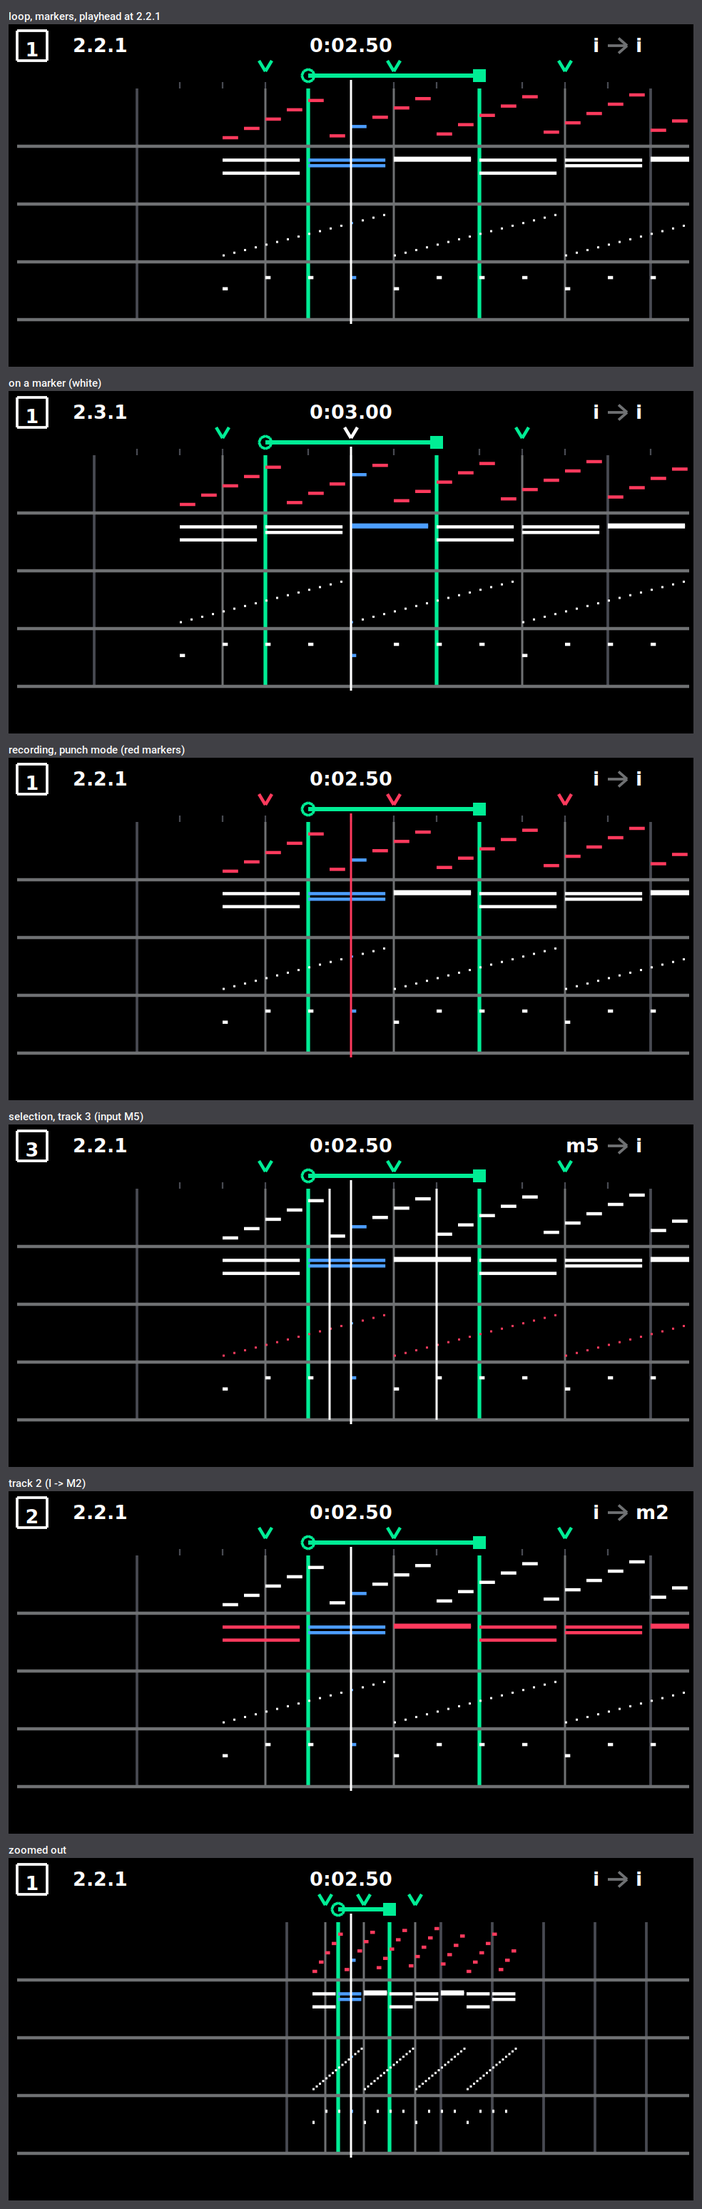
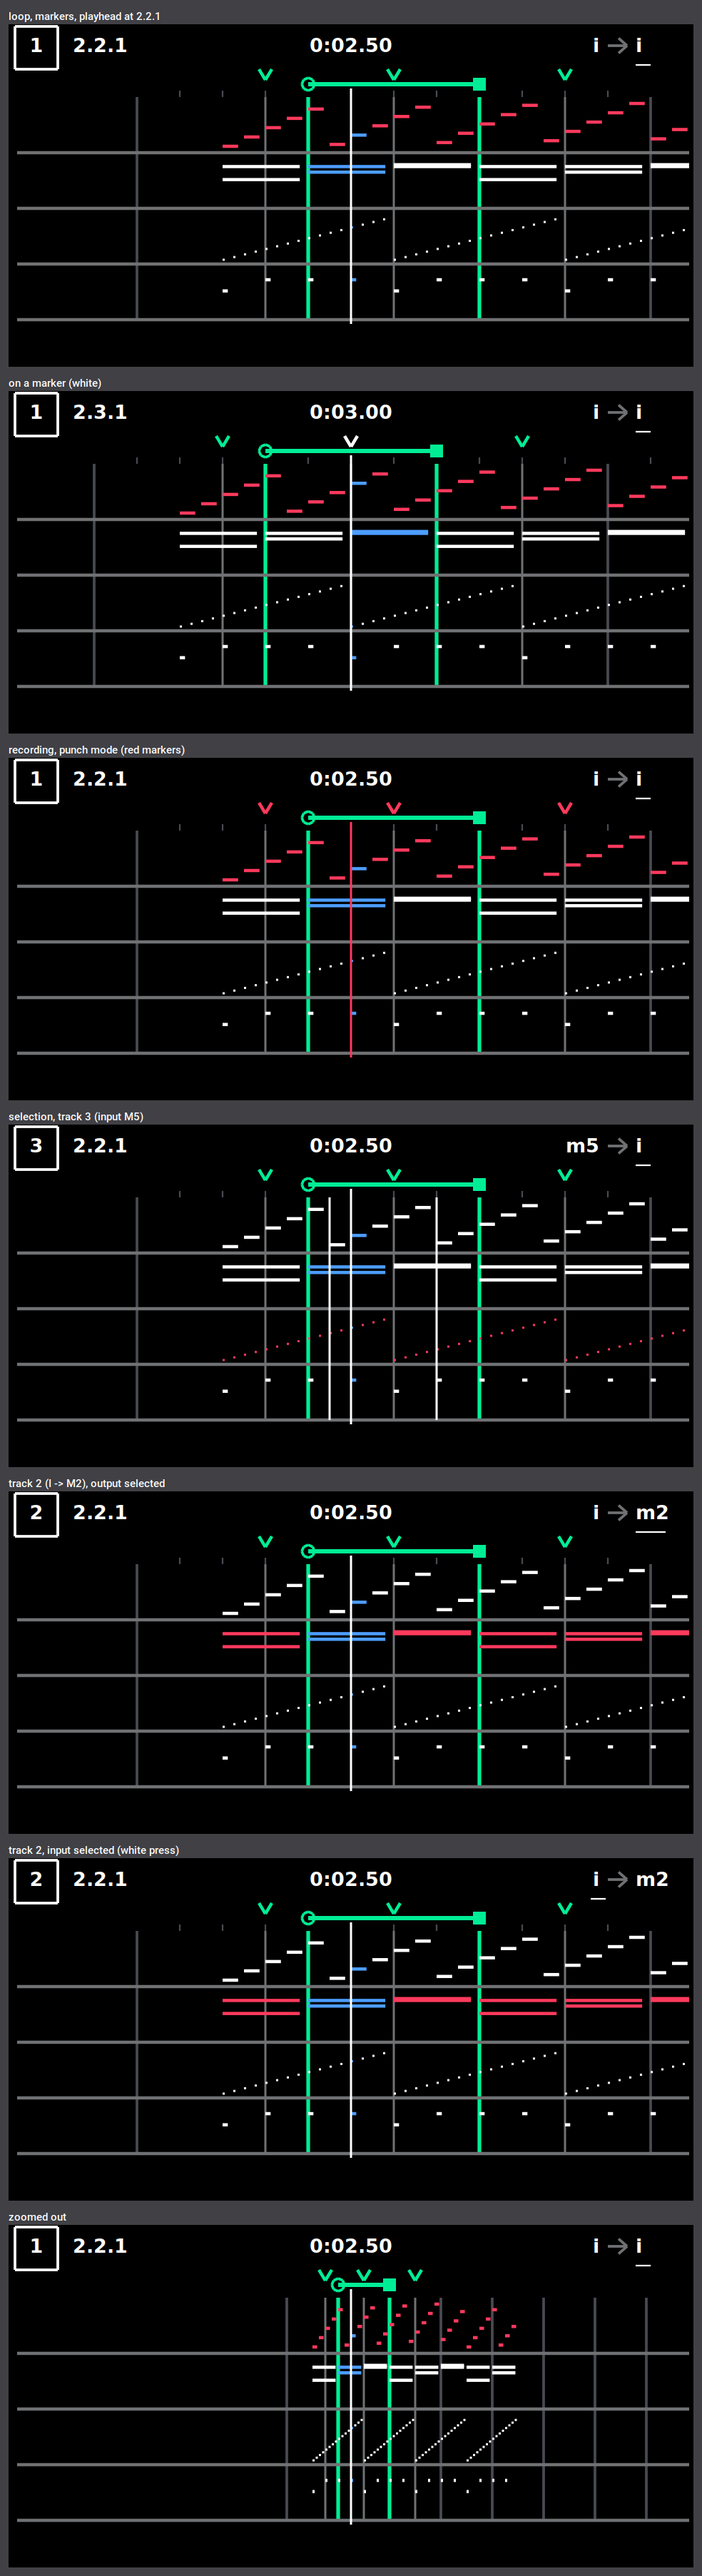
midi-seq: bigger track square, lanes lower, white press = input/output, white turn = targets

Changed region(s): [[0.0, 0.0, 1.0, 0.9922], [0.0, 0.0, 0.2134, 0.031]]

diff --git a/synth_sdk/seqdev/ms_draw.c b/synth_sdk/seqdev/ms_draw.c
@@ -36,8 +36,8 @@ static const uint8_t c_lane[4] = { 0x6F, 0x71, 0x73, 255 }, c_bar[4] = { 0x48, 0
 
 #define X0      OP1_Q10(4)                   /* lanes: x from here to X1 */
 #define X1      OP1_Q10(318)
-#define LANE_Y(t) OP1_Q10(30 + (t) * 27)     /* top of lane t, 27 px each, separators below */
-#define BAND_Y  OP1_Q10(24)                  /* loop bar / marker carets */
+#define LANE_Y(t) OP1_Q10(34 + (t) * 26)     /* top of lane t, 26 px each, separators below */
+#define BAND_Y  OP1_Q10(28)                  /* loop bar / marker carets */
 #define TXT_Y   4                            /* status bar text, px */
 #define ARROW_X 280                          /* input -> output arrow, px */
 
@@ -47,6 +47,7 @@ static void ring(void *r, int32_t x, int32_t y, int32_t rad, int32_t w, const ui
     for (int i = 0; i < 8; i++)
         sq_line(r, x + px[i] * rad / 10, y + py[i] * rad / 10, x + px[i + 1] * rad / 10, y + py[i + 1] * rad / 10, w, c);
 }
+static int32_t slen(const char *t) { int32_t n = 0; while (t[n]) n++; return n; }
 static char *two(char *o, uint32_t v) { *o++ = (char)('0' + v / 10 % 10); *o++ = (char)('0' + v % 10); *o = 0; return o; }
 
 void ms_draw(void *r, const ms_view *v, ms_t *s)
@@ -63,12 +64,12 @@ void ms_draw(void *r, const ms_view *v, ms_t *s)
     {
         int st = v->sel_track & 3, mu = s->h.mute[st];
         const uint8_t *cb = mu ? c_grey : c_white;
-        sq_line(r, OP1_Q10(4), OP1_Q10(3), OP1_Q10(18), OP1_Q10(3), 0x500, cb);
-        sq_line(r, OP1_Q10(18), OP1_Q10(3), OP1_Q10(18), OP1_Q10(17), 0x500, cb);
-        sq_line(r, OP1_Q10(18), OP1_Q10(17), OP1_Q10(4), OP1_Q10(17), 0x500, cb);
-        sq_line(r, OP1_Q10(4), OP1_Q10(17), OP1_Q10(4), OP1_Q10(3), 0x500, cb);
+        sq_line(r, OP1_Q10(3), OP1_Q10(1), OP1_Q10(23), OP1_Q10(1), 0x500, cb);
+        sq_line(r, OP1_Q10(23), OP1_Q10(1), OP1_Q10(23), OP1_Q10(21), 0x500, cb);
+        sq_line(r, OP1_Q10(23), OP1_Q10(21), OP1_Q10(3), OP1_Q10(21), 0x500, cb);
+        sq_line(r, OP1_Q10(3), OP1_Q10(21), OP1_Q10(3), OP1_Q10(1), 0x500, cb);
         char d[2] = { (char)('1' + st), 0 };
-        txt(r, &tx[mu ? T_TRACK_G : T_TRACK_W], OP1_Q10(11), TXT_Y + 2, cb, 1, d);   /* (centred in the square) */
+        txt(r, &tx[mu ? T_TRACK_G : T_TRACK_W], OP1_Q10(13), TXT_Y, cb, 1, d);   /* (centred in the square) */
         char t[16], *o = t;
         int32_t p = ph < 0 ? 0 : ph, b = p / bar, q = (p - b * bar) / beat, x = (p - b * bar - q * beat) / (beat / 4);
         o = sq_num(o, (uint32_t)b + 1, 0); *o++ = '.'; o = sq_num(o, (uint32_t)q + 1, 0); *o++ = '.'; sq_num(o, (uint32_t)x + 1, 0);
@@ -81,6 +82,8 @@ void ms_draw(void *r, const ms_view *v, ms_t *s)
         o = sq_cat(t, dl[ik % 3]);
         if (ik == MS_DEST_MIDI) sq_num(o, (s->h.in[st] >> 4) + 1u, 0);
         txt(r, &tx[T_IN], OP1_Q10(ARROW_X - 4), TXT_Y, c_white, 2, t);
+        int32_t ul = OP1_Q10(19);                                     /* white knob edits the underlined side */
+        if (v->io) sq_line(r, OP1_Q10(ARROW_X - 1) - OP1_Q10(7) * slen(t), ul, OP1_Q10(ARROW_X - 1), ul, 0x300, c_white);
         int32_t ax = OP1_Q10(ARROW_X), ay = OP1_Q10(10);              /* arrow */
         sq_line(r, ax, ay, ax + OP1_Q10(9), ay, 0x500, c_grey);
         sq_line(r, ax + OP1_Q10(5), ay - OP1_Q10(3.5), ax + OP1_Q10(9), ay, 0x500, c_grey);
@@ -88,6 +91,7 @@ void ms_draw(void *r, const ms_view *v, ms_t *s)
         o = sq_cat(t, dl[ok]);
         if (ok == MS_DEST_MIDI) sq_num(o, s->h.ch[st] + 1u, 0);
         txt(r, &tx[T_OUT], ax + OP1_Q10(13), TXT_Y, c_white, 0, t);
+        if (!v->io) sq_line(r, ax + OP1_Q10(13), ul, ax + OP1_Q10(13) + OP1_Q10(7) * slen(t), ul, 0x300, c_white);
     }
 
     /* bars and beats: lines through the lanes (bars thicker), beat ticks above the lanes when there is room */
@@ -130,7 +134,7 @@ void ms_draw(void *r, const ms_view *v, ms_t *s)
     for (int t = 0; t < MS_TRACKS; t++) {
         int32_t y = LANE_Y(t);
         const uint8_t *lc = t == v->sel_track ? c_red : s->h.mute[t] ? c_grey : c_white;
-        sq_line(r, X0, y + OP1_Q10(27), X1, y + OP1_Q10(27), 0x600, c_lane);
+        sq_line(r, X0, y + OP1_Q10(26), X1, y + OP1_Q10(26), 0x600, c_lane);
         int n = ms_events(s, t, ph - span, ph + span, ev, ps, 96);
         for (int i = 0; i < n; i++) {
             int32_t x0 = MS_X(ps[i]);

diff --git a/synth_sdk/seqdev/ms_fw.c b/synth_sdk/seqdev/ms_fw.c
@@ -4,8 +4,8 @@
  * Synced to the tape: positions are tape samples; PLAY / STOP stay the tape's. While the view is open: T1..T4 select
  * the track (Shift: mute), REC held = record the selected track (Shift + REC: latched, STOP ends it), scissors marks
  * the selection start / end, LIFT cuts it (no selection: the 1.5 s page under the playhead), Shift + LIFT copies, DROP
- * pastes at the playhead, green press cycles the track destination (instrument / sequencer / MIDI out), white press
- * its MIDI channel; red press / Shift + red / Shift + red turn: tape markers as on the tape screen. TAPE alone or another mode key leaves the view (the device keeps playing with the tape). */
+ * pastes at the playhead, white press switches between the track's input and output, white turn scrolls the
+ * targets (I instrument, S sequencer, M1..M16 MIDI); red press / Shift + red / Shift + red turn: tape markers as on the tape screen. TAPE alone or another mode key leaves the view (the device keeps playing with the tape). */
 #pragma GCC optimize ("Os", "no-tree-loop-distribute-patterns")
 #include "../op1_synth.h"
 #include "../seq/seq_text.h"
@@ -47,6 +47,26 @@ static int ms_scr_id = -1;
 static void *tape_obj;
 static volatile uint8_t view, seq_open_req, rec_held, rec_latch, seq_down, seq_chord, sel_set, own_play;
 static int32_t sel_a = -1, sel_b = -1;
+static uint8_t io_sel;                                   /* white knob edits: 0 output, 1 input */
+static int io_acc;
+/* white turn: one step per detent through I, S, M1..M16 (clamped) for the selected track's input or output */
+int ms_knob(int knob, int delta)
+{
+    if (!view || !ms || knob != 2) return 0;
+    if ((io_acc > 0 && delta < 0) || (io_acc < 0 && delta > 0)) io_acc = 0;
+    io_acc += delta;
+    int st = io_acc / 1024;
+    if (!st) return 1;
+    io_acc = 0;
+    int t = ms->sel & 3, k, ch;
+    if (io_sel) { k = ms->h.in[t] & 15; ch = ms->h.in[t] >> 4; } else { k = ms->h.dest[t] % 3; ch = ms->h.ch[t] & 15; }
+    int i = k == MS_DEST_MIDI ? 2 + ch : k == MS_DEST_SEQ ? 1 : 0;   /* list index */
+    i += st; if (i < 0) i = 0; if (i > 17) i = 17;
+    k = i >= 2 ? MS_DEST_MIDI : i == 1 ? MS_DEST_SEQ : MS_DEST_INSTR; ch = i >= 2 ? i - 2 : ch;
+    if (io_sel) ms->h.in[t] = (uint8_t)(k | ch << 4); else { ms->h.dest[t] = (uint8_t)k; ms->h.ch[t] = (uint8_t)ch; }
+    ms->head_dirty = 1;
+    return 1;
+}
 static uint8_t swallow[0x40];
 
 /* ---- env ---- */
@@ -245,8 +265,7 @@ int ms_key(int code, int pressed, int on_tape)
         swallow[code] = 1; return 1;
     }
     if (code == 0x0B) { ms_paste(ms, ph); swallow[code] = 1; return 1; }
-    if (code == 0x3C) { int t = ms->sel; ms->h.dest[t] = (uint8_t)((ms->h.dest[t] + 1) % 3); ms->head_dirty = 1; swallow[code] = 1; return 1; }
-    if (code == 0x3D) { int t = ms->sel; ms->h.ch[t] = (uint8_t)((ms->h.ch[t] + 1) & 15); ms->head_dirty = 1; swallow[code] = 1; return 1; }
+    if (code == 0x3D) { io_sel ^= 1; swallow[code] = 1; return 1; }
     return 0;
 }
 /* ---- drawing: the view screen's update (GUI thread, every frame): seqdev/ms_draw.c ---- */
@@ -273,7 +292,7 @@ static void ms_scr_update(void *self, int dt)
     ms_view v;
     v.ph = TAPE_POS >> 6; v.zoom_q10 = tm_zoom_q10(); v.bpm_q8 = bpm_q8();
     v.loop_on = LOOP_ON; v.loop_in = LOOP_IN; v.loop_out = LOOP_OUT;
-    v.sel_a = sel_a; v.sel_b = sel_b; v.sel_track = ms->sel & 3; v.rec = recording(); v.punch = pu_mode;
+    v.sel_a = sel_a; v.sel_b = sel_b; v.sel_track = ms->sel & 3; v.rec = recording(); v.punch = pu_mode; v.io = io_sel;
     v.tm_n = tm_n; v.tm = tm_pos;
     ms_draw(op1_raster(), &v, ms);
 }

diff --git a/synth_sdk/dispatcher.c b/synth_sdk/dispatcher.c
@@ -1146,6 +1146,7 @@ void knob_event_hook(int knob, int16_t *delta)
     if (dpu_knob(knob, *delta)) return;                          /* drum+ pages (pitch / volume: stock) */
     if (knob == 0 && sm_on == 2 && CUR_MODE_ID == 0x0C) { usbout_turn(*delta); return; }   /* usb out: blue */
     if (knob >= 0 && knob < 4 && sm_on == 3 && CUR_MODE_ID == 0x0C) { settings_turn(knob, *delta); return; }
+    { extern int ms_knob(int knob, int delta); if (ms_knob(knob, *delta)) return; }   /* MIDI seq view: white */
     if (knob == 3 && *(volatile uint8_t *)0x01DD7F78 && tape_page()) { tm_turn(*delta); return; }  /* tape: jump */
     if (knob >= 0 && knob < 4 && dots_page()) {                  /* dots: see seq/dots.c */
         int m = *(volatile int *)0x01DE4C40 == 1, sh = *(volatile uint8_t *)0x01DD7F78;

diff --git a/synth_sdk/harness/mseq_render.c b/synth_sdk/harness/mseq_render.c
@@ -65,7 +65,8 @@ int main(void)
     v.ph = 132300; frame("on a marker (white)", &v);
     v.ph = 110250; v.punch = 1; v.rec = 1; frame("recording, punch mode (red markers)", &v);
     v.punch = 0; v.rec = 0; v.sel_a = 99225; v.sel_b = 154350; v.sel_track = 2; frame("selection, track 3 (input M5)", &v);
-    v.sel_a = v.sel_b = -1; v.sel_track = 1; frame("track 2 (I -> M2)", &v); v.sel_track = 2;
+    v.sel_a = v.sel_b = -1; v.sel_track = 1; frame("track 2 (I -> M2), output selected", &v);
+    v.io = 1; frame("track 2, input selected (white press)", &v); v.io = 0; v.sel_track = 2;
     v.zoom_q10 = 12 << 10; v.sel_a = v.sel_b = -1; v.sel_track = 0; frame("zoomed out", &v);
     return 0;
 }

diff --git a/synth_sdk/seqdev/ms_draw.h b/synth_sdk/seqdev/ms_draw.h
@@ -6,6 +6,7 @@ typedef struct {
     int32_t ph, zoom_q10, bpm_q8;           /* playhead (samples), tape zoom (Q10 px per second), tempo (Q8 bpm) */
     int loop_on; int32_t loop_in, loop_out;
     int32_t sel_a, sel_b;                   /* selection (-1: none) */
+    int io;                                 /* white knob edits: 0 output, 1 input */
     int sel_track, rec, punch;              /* selected track, recording, tape punch mode (markers red) */
     int tm_n; const int32_t *tm;            /* tape markers (tape/markers.c) */
 } ms_view;
